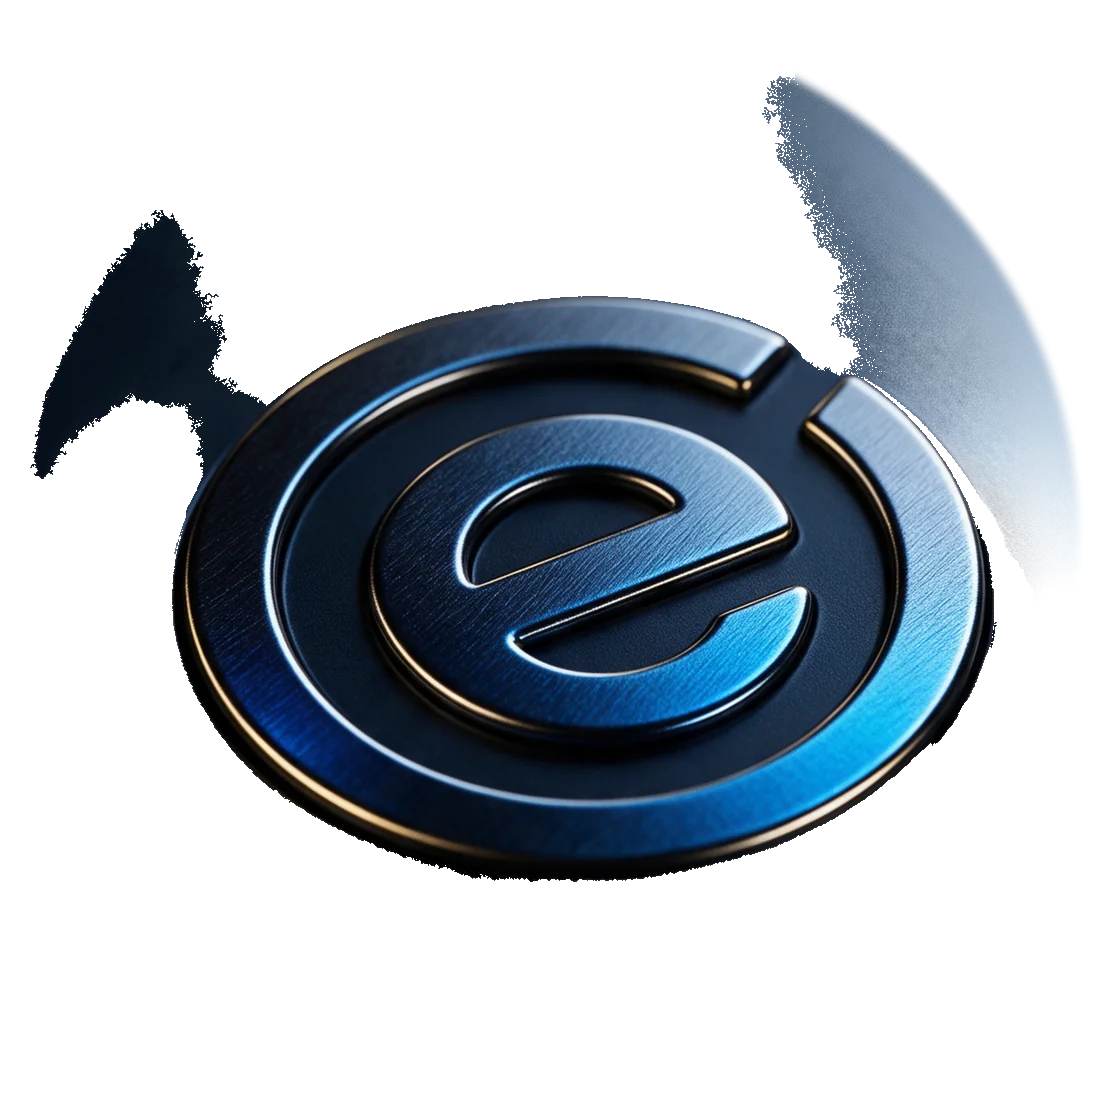
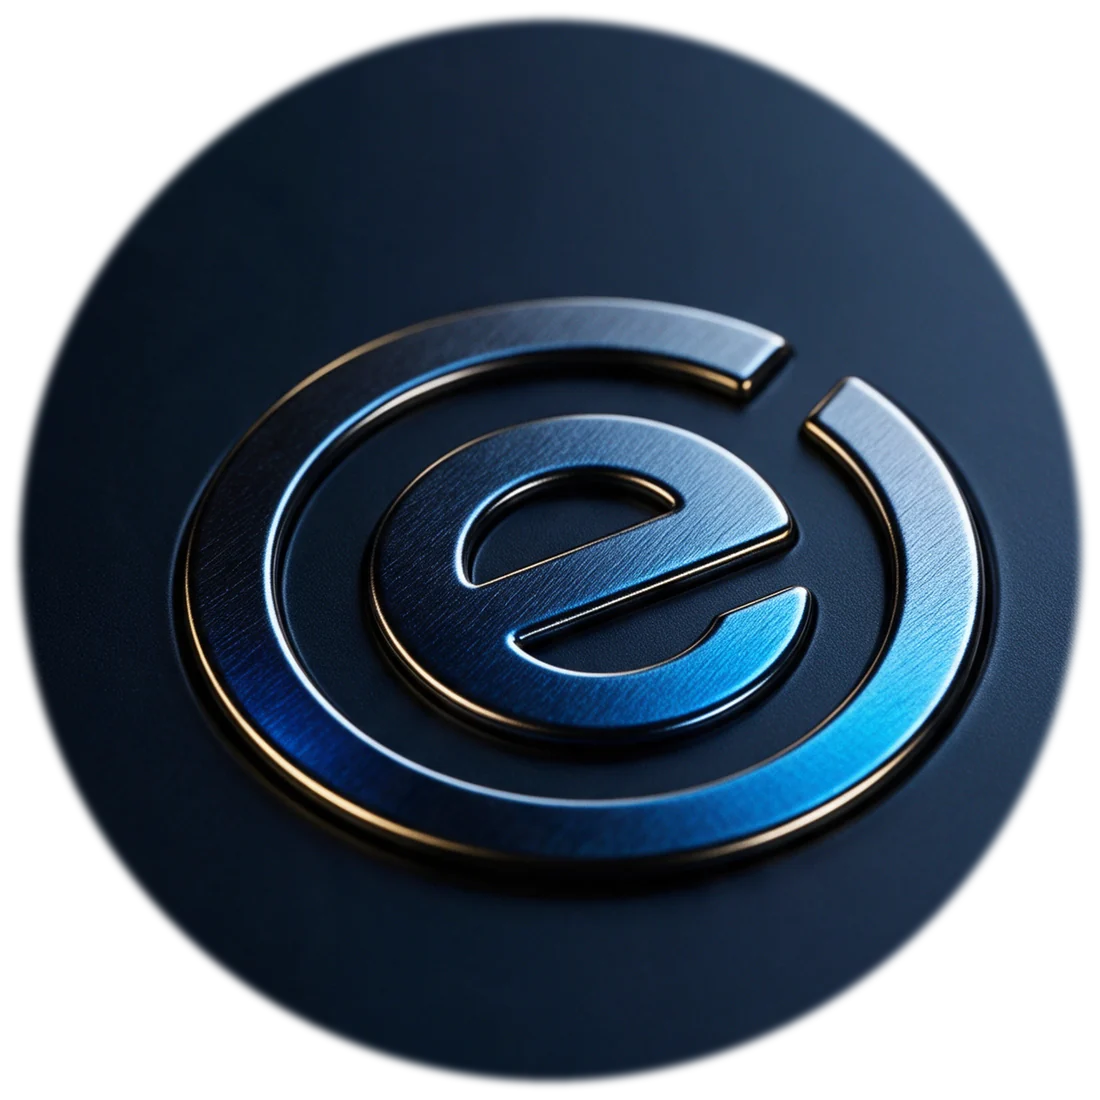
Mobile cleanup: clip hero decoration overflow (page was 600px wide on phones), uniform product art, 44px tap targets, two-column footer lists, readable sticky pill, fresh Last shipped stamp + stamp script, remove Blissful Touch proof card, restore original device mark

diff --git a/redesign.css b/redesign.css
@@ -5219,3 +5219,50 @@ body {
 
 /* Speed: the hero paints before JS. Reveal animation stays for everything below the fold. */
 .hero-v2 [data-r]{opacity:1 !important;transform:none !important;transition:none !important}
+
+/* ════════════════════════════════════════════════════════════════════
+   MOBILE CLEANUP (2026-09-18)
+   ════════════════════════════════════════════════════════════════════ */
+/* The hero glow + orbit rings extend ~210px past the right edge. Desktop hides it,
+   iOS Safari lets the page pan sideways and zoom out. Clip at the source and guard
+   at the root. `clip` (not hidden) so position:sticky keeps working. */
+html, body { max-width: 100%; overflow-x: clip; }
+.hero, .hero-v2 { overflow-x: clip; }
+@supports not (overflow-x: clip) { html, body, .hero, .hero-v2 { overflow-x: hidden; } }
+
+@media (max-width: 768px) {
+  /* Product cards: the Starter + Revenue Scale art blocks were ~480px tall on a phone
+     (a 300px min-height glyph inside a 220px+ container). Bring every card's art to one size. */
+  .eh-mascot, .eh-mascot .eng-glyph { min-height: 0; }
+  .eh-mascot { height: 170px; margin-bottom: 4px; }
+  .eh-mascot .eng-glyph svg, .eh-mascot img { width: auto; height: 150px; max-width: 200px; }
+  .engine-hero { padding: 22px 18px; gap: 12px; }
+
+  /* Section rhythm: the page was 26,000px tall. Tighter vertical padding, same hierarchy. */
+  .section, section.section { padding-top: 56px; padding-bottom: 56px; }
+  .section-header { margin-bottom: 28px; }
+  .cap-card, .rs-feat, .promise-card { padding: 20px 18px; }
+
+  /* Tap targets: 44px minimum on the things people actually tap. */
+  .hp-num, .hero-phone a { display: inline-flex; align-items: center; min-height: 44px; padding: 0 6px; }
+  .footer-contact a { display: block; padding: 7px 0; }
+  .footer-col a { display: block; }
+  .faq-q { min-height: 52px; }
+  #more-industries a { display: inline-block; padding: 10px 2px; }
+
+  /* Footer: 1,600px of single-column links. Two columns for the link lists. */
+  /* An older rule forces the footer grid to one column with !important, so the
+     two-column layout happens inside each link list instead. */
+  .footer-grid { row-gap: 22px; }
+  .footer-col { display: block; column-count: 2; column-gap: 20px; }
+  .footer-col h4 { column-span: all; margin-bottom: 4px; }
+  .footer-col a { break-inside: avoid; padding: 6px 0; }
+
+  /* Sticky pill: readable label, clear of the chat button, safe-area aware. */
+  .sticky-cta-scarcity .sc-scarcity { font-size: 0.7rem; letter-spacing: .06em; }
+  .sticky-cta { left: 16px; bottom: calc(14px + env(safe-area-inset-bottom)); max-width: calc(100vw - 96px); }
+  .ew-chat-fab { bottom: calc(14px + env(safe-area-inset-bottom)); }
+
+  /* Small print that was under 12px. */
+  .ec-tag, .ed-label, .cap-chip, .cap-tags span, .guarantee-sub { font-size: 0.75rem; }
+}

diff --git a/index.html b/index.html
@@ -28,7 +28,7 @@
   <link rel="preconnect" href="https://fonts.gstatic.com" crossorigin>
   <link rel="stylesheet" href="https://fonts.googleapis.com/css2?family=Space+Grotesk:wght@400;500;600;700;800&family=Inter:wght@400;500;600&family=JetBrains+Mono:wght@500&display=swap" media="print" onload="this.media='all'"><noscript><link rel="stylesheet" href="https://fonts.googleapis.com/css2?family=Space+Grotesk:wght@400;500;600;700;800&family=Inter:wght@400;500;600&family=JetBrains+Mono:wght@500&display=swap"></noscript>
   <link rel="stylesheet" href="style.min.css?v=v3blue6">
-  <link rel="stylesheet" href="redesign.css?v=35">
+  <link rel="stylesheet" href="redesign.css?v=38">
 
   <!-- Schema: LocalBusiness -->
   <script type="application/ld+json">
@@ -863,12 +863,6 @@
           <span class="ws-orb">AT</span><span class="ws-label">Alltight Interior</span>
         </a>
 
-        <a class="ws-item" role="listitem" href="https://blissfultouch.ca" target="_blank" rel="noopener"
-           data-name="Blissful Touch" data-cat="Med-spa · Calgary, AB"
-           data-desc="Website, booking and CRM on Small Business Starter, plus local SEO and a review engine that keeps the calendar full.">
-          <span class="ws-orb">BT</span><span class="ws-label">Blissful Touch</span>
-        </a>
-
         <a class="ws-item" role="listitem" href="https://smcsundayclub.com" target="_blank" rel="noopener"
            data-name="SMC Sunday Club" data-cat="Membership &amp; media community"
            data-desc="Full membership platform: magic-link login, Stripe checkout, members lounge and waitlist funnel, all live.">
@@ -1028,7 +1022,7 @@
     <div class="onsite-band onsite-band-v2">
       <div class="onsite-mascot" data-r>
         <div class="mascot-glow mascot-glow-cyan"></div>
-        <picture><source srcset="img/mark-device.webp?v=2" type="image/webp"><img src="img/mark-device.png?v=2" alt="The Easyworks mark as an embossed device emblem" loading="lazy" decoding="async" width="1100" height="1100" class="mascot-img mascot-float"></picture>
+        <picture><source srcset="img/mark-device.webp?v=3" type="image/webp"><img src="img/mark-device.png?v=3" alt="The Easyworks mark as an embossed device emblem" loading="lazy" decoding="async" width="1100" height="1100" class="mascot-img mascot-float"></picture>
       </div>
       <div class="onsite-copy" data-r data-d="1">
         <p class="overline">🇨🇦 Built in British Columbia</p>
@@ -1360,7 +1354,7 @@
         tick(); setInterval(tick, 30000);
         var d = document.getElementById('status-deploy');
         if(d){
-          var deploy = new Date('2026-05-28T17:46:12Z');
+          var deploy = new Date('2026-09-18T15:53:18Z');
           if(!isNaN(deploy.getTime())){
             var diff = Math.floor((Date.now()-deploy.getTime())/60000);
             if(diff < 60) d.textContent = diff + ' min ago';

diff --git a/industries/financial/index.html b/industries/financial/index.html
@@ -21,7 +21,7 @@
 <link rel="preconnect" href="https://fonts.gstatic.com" crossorigin>
 <link href="https://fonts.googleapis.com/css2?family=Space+Grotesk:wght@400;500;600;700;800&amp;family=Inter:wght@400;500;600&amp;family=JetBrains+Mono:wght@500&amp;display=swap" rel="stylesheet">
 <link rel="stylesheet" href="../../style.min.css?v=v3blue6">
-<link rel="stylesheet" href="../../redesign.css?v=35">
+<link rel="stylesheet" href="../../redesign.css?v=38">
 <script type="application/ld+json">
 {"@context":"https://schema.org","@type":"Service","name":"Growth Systems for Mortgage Brokers, Insurance Agents and Financial Advisors","description":"Rate shoppers and quote requests do not wait. Applications stall on missing documents. Renewals and annual reviews slip, and the realtors and accountants who send you business stop hearing from you. Client lifetime value is long and referral driven, ","url":"https://easyworks.ai/industries/financial/","serviceType":"AI for Mortgage, Insurance and Advisory Firms","provider":{"@type":"LocalBusiness","@id":"https://easyworks.ai/#business","name":"Easyworks AI Solutions"},"areaServed":["Canada","United States","United Kingdom"]}
 </script>

diff --git a/industries/home-services/index.html b/industries/home-services/index.html
@@ -21,7 +21,7 @@
 <link rel="preconnect" href="https://fonts.gstatic.com" crossorigin>
 <link href="https://fonts.googleapis.com/css2?family=Space+Grotesk:wght@400;500;600;700;800&amp;family=Inter:wght@400;500;600&amp;family=JetBrains+Mono:wght@500&amp;display=swap" rel="stylesheet">
 <link rel="stylesheet" href="../../style.min.css?v=v3blue6">
-<link rel="stylesheet" href="../../redesign.css?v=35">
+<link rel="stylesheet" href="../../redesign.css?v=38">
 <script type="application/ld+json">
 {"@context":"https://schema.org","@type":"Service","name":"Growth Systems for HVAC, Roofing, Plumbing, Electrical and Contractors","description":"The call comes in while you are on the roof or under a sink, and it goes to the next company in the search results. Quotes go out and nobody follows up. Your Google Business Profile is thin next to the big franchises, and you have no idea which ad br","url":"https://easyworks.ai/industries/home-services/","serviceType":"AI for Home Service Companies","provider":{"@type":"LocalBusiness","@id":"https://easyworks.ai/#business","name":"Easyworks AI Solutions"},"areaServed":["Canada","United States"]}
 </script>

diff --git a/industries/real-estate/index.html b/industries/real-estate/index.html
@@ -21,7 +21,7 @@
 <link rel="preconnect" href="https://fonts.gstatic.com" crossorigin>
 <link href="https://fonts.googleapis.com/css2?family=Space+Grotesk:wght@400;500;600;700;800&amp;family=Inter:wght@400;500;600&amp;family=JetBrains+Mono:wght@500&amp;display=swap" rel="stylesheet">
 <link rel="stylesheet" href="../../style.min.css?v=v3blue6">
-<link rel="stylesheet" href="../../redesign.css?v=35">
+<link rel="stylesheet" href="../../redesign.css?v=38">
 <script type="application/ld+json">
 {"@context":"https://schema.org","@type":"Service","name":"Growth Systems for Real Estate Teams and Brokerages","description":"Portal leads, ad leads and sign calls go cold in the first five minutes. Agents follow up when they can. Past clients never hear from the team again, and transaction deadlines live on sticky notes. One extra closing pays for the year, so that is wher","url":"https://easyworks.ai/industries/real-estate/","serviceType":"AI for Real Estate Teams","provider":{"@type":"LocalBusiness","@id":"https://easyworks.ai/#business","name":"Easyworks AI Solutions"},"areaServed":["Canada","United States","United Kingdom"]}
 </script>

diff --git a/industries/dealerships/index.html b/industries/dealerships/index.html
@@ -21,7 +21,7 @@
 <link rel="preconnect" href="https://fonts.gstatic.com" crossorigin>
 <link href="https://fonts.googleapis.com/css2?family=Space+Grotesk:wght@400;500;600;700;800&amp;family=Inter:wght@400;500;600&amp;family=JetBrains+Mono:wght@500&amp;display=swap" rel="stylesheet">
 <link rel="stylesheet" href="../../style.min.css?v=v3blue6">
-<link rel="stylesheet" href="../../redesign.css?v=35">
+<link rel="stylesheet" href="../../redesign.css?v=38">
 <script type="application/ld+json">
 {"@context":"https://schema.org","@type":"Service","name":"Growth Systems for Auto Dealerships and Independent Lots","description":"Internet leads get answered hours later. Service customers are never reminded and drift to the quick lube down the street. Inventory content goes stale, reviews lag, and the BDC costs more than it books. The Blueprint maps your lead response by sourc","url":"https://easyworks.ai/industries/dealerships/","serviceType":"AI for Auto Dealerships","provider":{"@type":"LocalBusiness","@id":"https://easyworks.ai/#business","name":"Easyworks AI Solutions"},"areaServed":["Canada","United States"]}
 </script>

diff --git a/industries/ai-for-physio-bc/index.html b/industries/ai-for-physio-bc/index.html
@@ -21,7 +21,7 @@
 <link rel="preconnect" href="https://fonts.gstatic.com" crossorigin>
 <link href="https://fonts.googleapis.com/css2?family=Space+Grotesk:wght@400;500;600;700;800&amp;family=Inter:wght@400;500;600&amp;family=JetBrains+Mono:wght@500&amp;display=swap" rel="stylesheet">
 <link rel="stylesheet" href="../../style.min.css?v=v3blue6">
-<link rel="stylesheet" href="../../redesign.css?v=35">
+<link rel="stylesheet" href="../../redesign.css?v=38">
 <script type="application/ld+json">
 {"@context":"https://schema.org","@type":"Service","name":"AI for Physiotherapy Clinics in BC","description":"BC physiotherapy clinics drown in admin. ICBC and WSBC paperwork eat hours every week. New referrals trickle in by phone, email, fax, EMR, and walk-in — and every channel needs a different response. The clinics that thrive are the ones that run on its own ","url":"https://easyworks.ai/industries/ai-for-physio-bc/","serviceType":"AI for Physiotherapy Clinics","provider":{"@type":"LocalBusiness","@id":"https://easyworks.ai/#business","name":"Easyworks AI Solutions"},"areaServed":"British Columbia, Canada"}
 </script>

diff --git a/locations/new-westminster/index.html b/locations/new-westminster/index.html
@@ -21,7 +21,7 @@
 <link rel="preconnect" href="https://fonts.gstatic.com" crossorigin>
 <link href="https://fonts.googleapis.com/css2?family=Space+Grotesk:wght@400;500;600;700;800&amp;family=Inter:wght@400;500;600&amp;family=JetBrains+Mono:wght@500&amp;display=swap" rel="stylesheet">
 <link rel="stylesheet" href="../../style.min.css?v=v3blue6">
-<link rel="stylesheet" href="../../redesign.css?v=35">
+<link rel="stylesheet" href="../../redesign.css?v=38">
 <script type="application/ld+json">
 {"@context":"https://schema.org","@type":"LocalBusiness","@id":"https://easyworks.ai/locations/new-westminster/#business","name":"Easyworks AI Solutions — New Westminster","url":"https://easyworks.ai/locations/new-westminster/","image":"https://easyworks.ai/og-image.png","telephone":"+1-604-265-7660","email":"team@easyworksai.com","areaServed":{"@type":"City","name":"New Westminster, BC"},"address":{"@type":"PostalAddress","addressLocality":"New Westminster","addressRegion":"BC","addressCountry":"CA"},"geo":{"@type":"GeoCoordinates","latitude":49.2057,"longitude":-122.911},"sameAs":["https://easyworks.ai/"]}
 </script>

diff --git a/locations/north-vancouver/index.html b/locations/north-vancouver/index.html
@@ -21,7 +21,7 @@
 <link rel="preconnect" href="https://fonts.gstatic.com" crossorigin>
 <link href="https://fonts.googleapis.com/css2?family=Space+Grotesk:wght@400;500;600;700;800&amp;family=Inter:wght@400;500;600&amp;family=JetBrains+Mono:wght@500&amp;display=swap" rel="stylesheet">
 <link rel="stylesheet" href="../../style.min.css?v=v3blue6">
-<link rel="stylesheet" href="../../redesign.css?v=35">
+<link rel="stylesheet" href="../../redesign.css?v=38">
 <script type="application/ld+json">
 {"@context":"https://schema.org","@type":"LocalBusiness","@id":"https://easyworks.ai/locations/north-vancouver/#business","name":"Easyworks AI Solutions — North Vancouver","url":"https://easyworks.ai/locations/north-vancouver/","image":"https://easyworks.ai/og-image.png","telephone":"+1-604-265-7660","email":"team@easyworksai.com","areaServed":{"@type":"City","name":"North Vancouver, BC"},"address":{"@type":"PostalAddress","addressLocality":"North Vancouver","addressRegion":"BC","addressCountry":"CA"},"geo":{"@type":"GeoCoordinates","latitude":49.32,"longitude":-123.0724},"sameAs":["https://easyworks.ai/"]}
 </script>

diff --git a/industries/ai-for-dentists-bc/index.html b/industries/ai-for-dentists-bc/index.html
@@ -21,7 +21,7 @@
 <link rel="preconnect" href="https://fonts.gstatic.com" crossorigin>
 <link href="https://fonts.googleapis.com/css2?family=Space+Grotesk:wght@400;500;600;700;800&amp;family=Inter:wght@400;500;600&amp;family=JetBrains+Mono:wght@500&amp;display=swap" rel="stylesheet">
 <link rel="stylesheet" href="../../style.min.css?v=v3blue6">
-<link rel="stylesheet" href="../../redesign.css?v=35">
+<link rel="stylesheet" href="../../redesign.css?v=38">
 <script type="application/ld+json">
 {"@context":"https://schema.org","@type":"Service","name":"AI for Dental Clinics in BC","description":"Dental clinics in British Columbia lose more revenue to no-shows and missed phone calls than to any other category of operations problem. Patients call after hours. Patients call during a procedure when the front desk is helping someone else. Patient","url":"https://easyworks.ai/industries/ai-for-dentists-bc/","serviceType":"AI for Dental Clinics","provider":{"@type":"LocalBusiness","@id":"https://easyworks.ai/#business","name":"Easyworks AI Solutions"},"areaServed":"British Columbia, Canada"}
 </script>

diff --git a/industries/ai-for-spas-bc/index.html b/industries/ai-for-spas-bc/index.html
@@ -21,7 +21,7 @@
 <link rel="preconnect" href="https://fonts.gstatic.com" crossorigin>
 <link href="https://fonts.googleapis.com/css2?family=Space+Grotesk:wght@400;500;600;700;800&amp;family=Inter:wght@400;500;600&amp;family=JetBrains+Mono:wght@500&amp;display=swap" rel="stylesheet">
 <link rel="stylesheet" href="../../style.min.css?v=v3blue6">
-<link rel="stylesheet" href="../../redesign.css?v=35">
+<link rel="stylesheet" href="../../redesign.css?v=38">
 <script type="application/ld+json">
 {"@context":"https://schema.org","@type":"Service","name":"AI for Spas and Med-Spas in BC","description":"Spa clients book emotionally and impulsively. They decide at 10pm Wednesday that they want a facial Saturday, and if they can't book it in the next 90 seconds, half of them won't book at all. Most BC spas don't pick up after 7pm. Most don't have onli","url":"https://easyworks.ai/industries/ai-for-spas-bc/","serviceType":"AI for Spas + Med-Spas","provider":{"@type":"LocalBusiness","@id":"https://easyworks.ai/#business","name":"Easyworks AI Solutions"},"areaServed":"British Columbia, Canada"}
 </script>

diff --git a/industries/law/index.html b/industries/law/index.html
@@ -21,7 +21,7 @@
 <link rel="preconnect" href="https://fonts.gstatic.com" crossorigin>
 <link href="https://fonts.googleapis.com/css2?family=Space+Grotesk:wght@400;500;600;700;800&amp;family=Inter:wght@400;500;600&amp;family=JetBrains+Mono:wght@500&amp;display=swap" rel="stylesheet">
 <link rel="stylesheet" href="../../style.min.css?v=v3blue6">
-<link rel="stylesheet" href="../../redesign.css?v=35">
+<link rel="stylesheet" href="../../redesign.css?v=38">
 <script type="application/ld+json">
 {"@context":"https://schema.org","@type":"Service","name":"Growth Systems for Law Firms","description":"Intake calls come in while you are in court or with a client. A slow callback loses the retainer to the next firm on the search results. Consults no show, reviews stay thin, and intake data gets typed twice. One retained matter pays for the year, so ","url":"https://easyworks.ai/industries/law/","serviceType":"AI for Law Firms","provider":{"@type":"LocalBusiness","@id":"https://easyworks.ai/#business","name":"Easyworks AI Solutions"},"areaServed":["Canada","United States","United Kingdom"]}
 </script>
